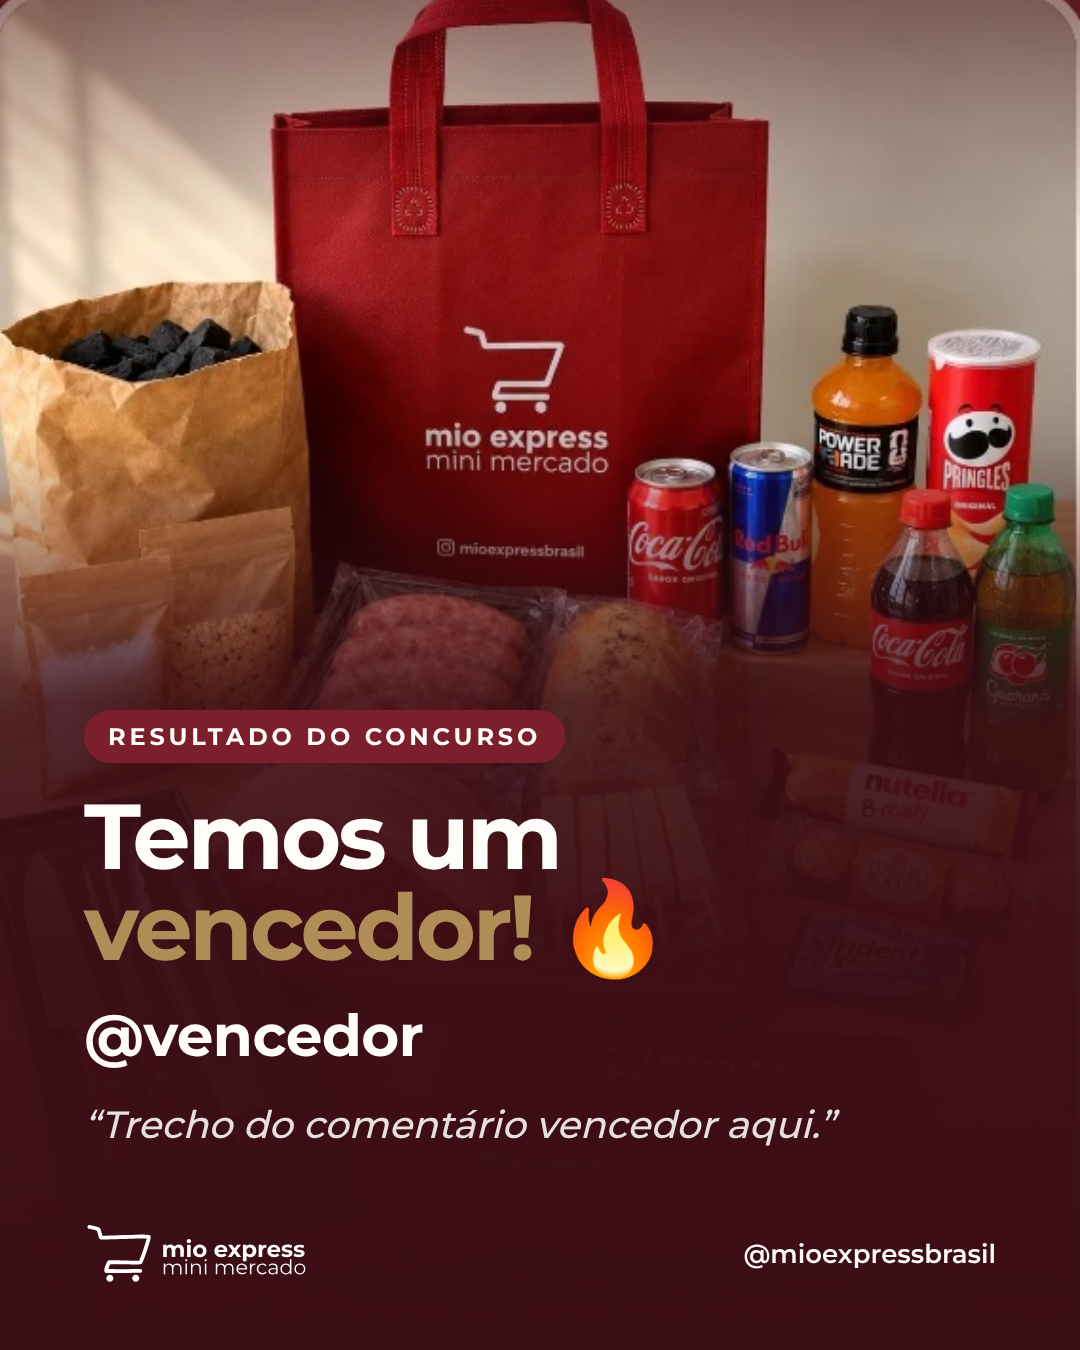
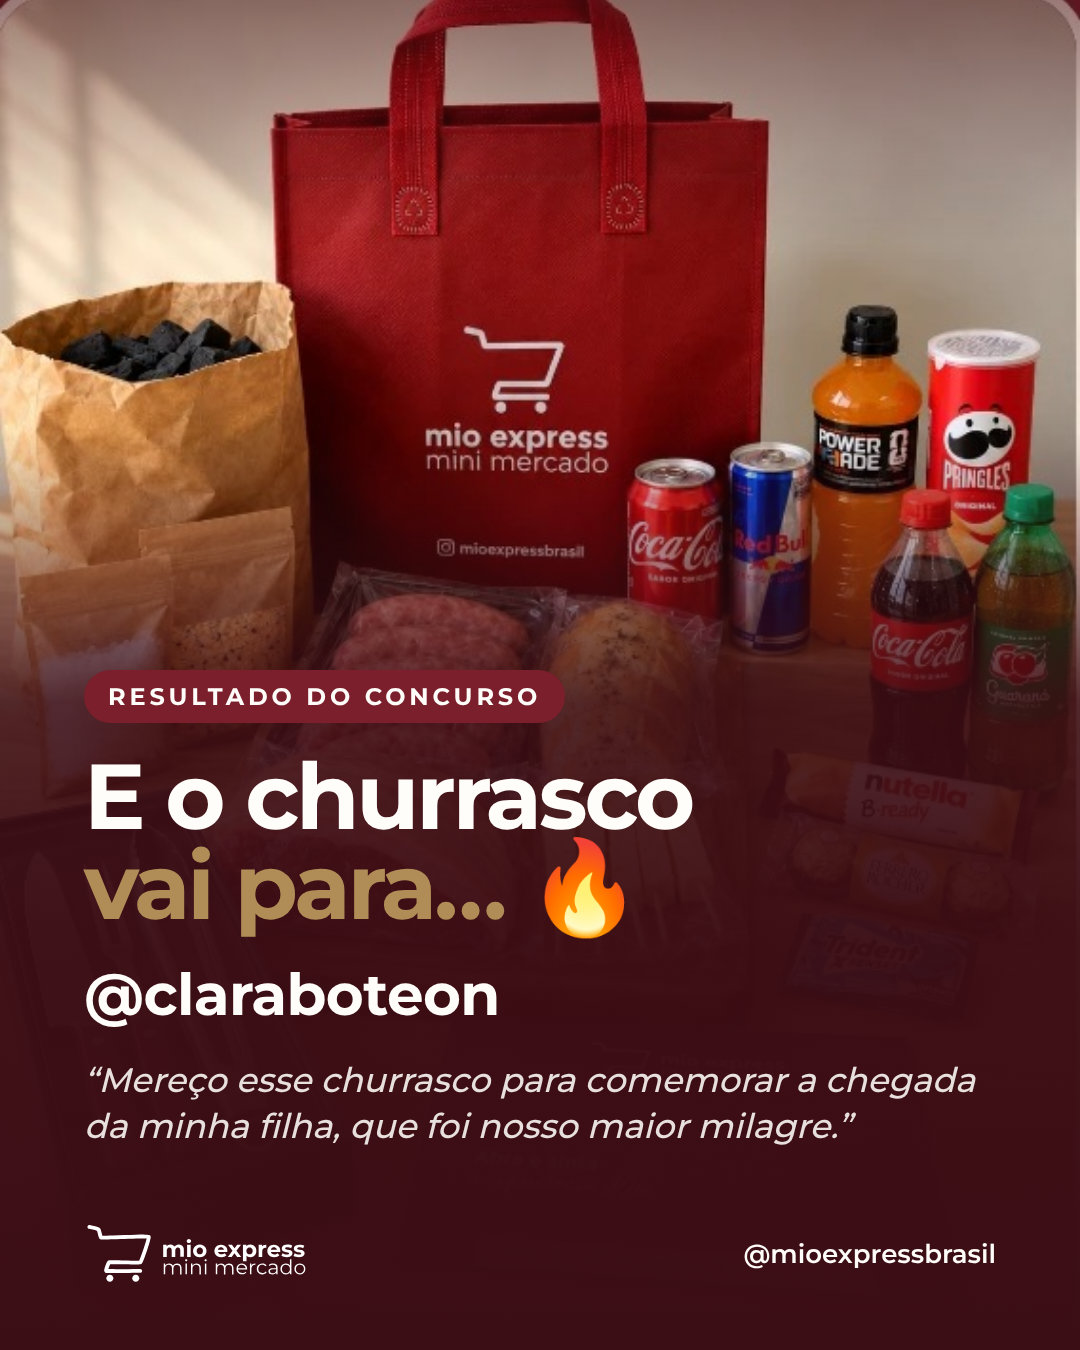
Resultado do concurso: arte da vencedora
Claude-Session: https://claude.ai/code/session_01CwP1brNtxaKT1mUQXiiAjA

Changed region(s): [[0.0611, 0.4978, 0.9167, 0.8711]]

diff --git a/marketing/posts/13-resultado-concurso/.slide.html b/marketing/posts/13-resultado-concurso/.slide.html
@@ -39,9 +39,11 @@ p.lead { font-size: 38px; line-height: 1.35; font-weight: 500; opacity: .88; }
 .ft::after { content: ""; position: absolute; inset: 0; background: linear-gradient(180deg, rgba(59,13,20,.97) 0%, rgba(59,13,20,.9) 30%, rgba(59,13,20,.25) 52%, rgba(59,13,20,0) 66%, rgba(59,13,20,.75) 100%); }
 .ft2 { position: absolute; left: 0; right: 0; bottom: 0; height: 760px; background-size: cover; }
 .ft2::after { content: ""; position: absolute; inset: 0; background: linear-gradient(180deg, #3b0d14 0%, rgba(59,13,20,0) 28%, rgba(59,13,20,0) 70%, rgba(59,13,20,.85) 100%); }
+.ft.life::after { background: linear-gradient(180deg, rgba(59,13,20,.85) 0%, rgba(59,13,20,.55) 22%, rgba(59,13,20,0) 38%, rgba(59,13,20,0) 78%, rgba(59,13,20,.7) 100%); }
+.ft.life ~ .z h1, .ft.life ~ .z .eyebrow { text-shadow: 0 2px 18px rgba(30,6,10,.85), 0 0 4px rgba(30,6,10,.5); }
 .ft.baixo::after { background: linear-gradient(180deg, rgba(59,13,20,.5) 0%, rgba(59,13,20,0) 18%, rgba(59,13,20,0) 32%, rgba(59,13,20,.88) 52%, rgba(59,13,20,.97) 70%, #3b0d14 100%); }
 </style><body><div class="s" style="color:#fffdf9"><div class="ft baixo" style="background-image:url(file:///home/user/mioexpress-site/marketing/posts/12-concurso-churrasco/kit.jpg);background-position:50% 20%"></div>
         <div class="z mt-a" style="margin-bottom:110px"><span class="pill">Resultado do concurso</span>
-        <h1 class="mt1" style="font-size:92px">Temos um<br><em>vencedor!</em> 🔥</h1>
-        <p class="mt1" style="font-size:58px;font-weight:700;letter-spacing:-.01em">@vencedor</p>
-        <p class="lead mt1" style="font-style:italic">“Trecho do comentário vencedor aqui.”</p></div><div class="rodape"><img src="file:///home/user/mioexpress-site/public/brand/logo-white.svg"><span>@mioexpressbrasil</span></div></div></body>
+        <h1 class="mt1" style="font-size:92px">E o churrasco<br><em>vai para…</em> 🔥</h1>
+        <p class="mt1" style="font-size:58px;font-weight:700;letter-spacing:-.01em">@claraboteon</p>
+        <p class="lead mt1" style="font-style:italic;font-size:34px">“Mereço esse churrasco para comemorar a chegada da minha filha, que foi nosso maior milagre.”</p></div><div class="rodape"><img src="file:///home/user/mioexpress-site/public/brand/logo-white.svg"><span>@mioexpressbrasil</span></div></div></body>
